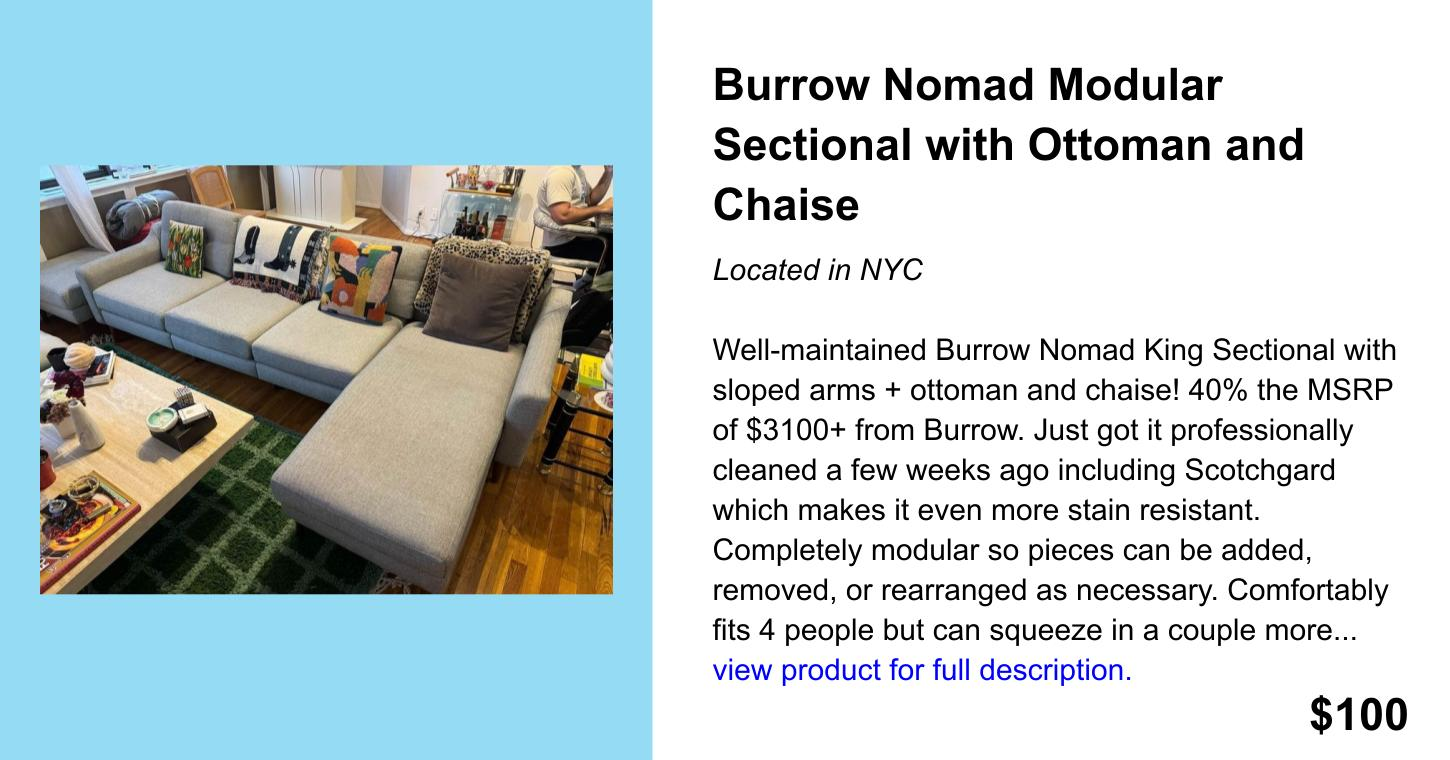
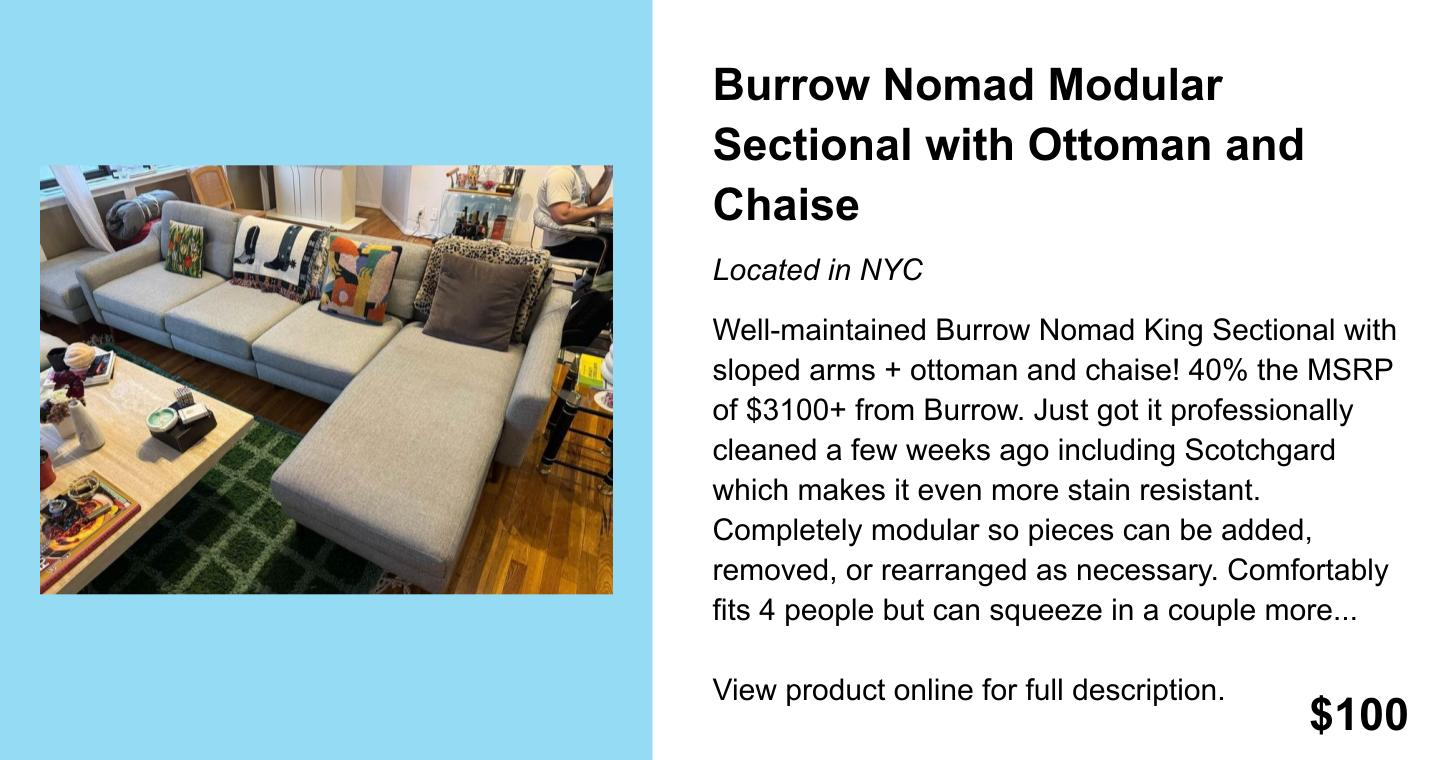
fixes

Changed region(s): [[0.4966, 0.4237, 0.9621, 0.9382]]

diff --git a/backend/utils/marketplace/createMarketplaceProductFrame.js b/backend/utils/marketplace/createMarketplaceProductFrame.js
@@ -52,14 +52,14 @@ async function createProductFrame(location, title, description, price, imageUrl)
         currentY += wrapText(ctx, title, textSectionStart, currentY, textMaxWidth, textConfig.title.lineHeight);
 
         // Print location underneath the title in italics
-        const locationGap = -40; // Gap between title and location
+        const locationGap = 0; // Gap between title and location
         currentY += locationGap; // Move currentY down to create a gap
         const fullLocation = `Located in ${location}`;
         ctx.font = 'italic 30px Arial';
         ctx.fillText(fullLocation, textSectionStart, currentY);
-        currentY += 80; // Move currentY down after location, creating space before the description
+        currentY += 60; // Adjust space before the description
 
-        // Reset font to non-italics
+        // Reset font to non-italics for description
         ctx.font = textConfig.description.font;
 
         // Draw product description if available
@@ -67,19 +67,14 @@ async function createProductFrame(location, title, description, price, imageUrl)
             const maxDescriptionLength = 60; // Maximum number of words for the description
             let words = description.split(' ');
             let shouldShowViewMore = words.length > maxDescriptionLength;
-            let trimmedDescription = shouldShowViewMore ? words.slice(0, maxDescriptionLength).join(' ') + "..." : description;
+            let trimmedDescription = shouldShowViewMore ? words.slice(0, maxDescriptionLength).join(' ') + "...\n\nView product online for full description." : description;
         
-            // Draw the trimmed description and update currentY based on the text height
-            currentY = wrapText(ctx, trimmedDescription, textSectionStart, currentY, textMaxWidth, textConfig.description.lineHeight);
-            
-            // If the description was trimmed, add the "view more" text with appropriate spacing
-            if (shouldShowViewMore) {
-                currentY += textConfig.description.lineHeight; // Ensure spacing between description and "view more" text
-                ctx.fillStyle = 'blue'; // Set color for "...view product for full description"
-                ctx.fillText("view product for full description.", textSectionStart, currentY);
-                currentY += textConfig.description.lineHeight; // Update currentY in case more text follows
-            }
+            // Use the corrected variable for drawing
+            currentY += wrapText(ctx, trimmedDescription, textSectionStart, currentY, textMaxWidth, textConfig.description.lineHeight);
+
+            // No need for additional "view more" text handling here; it's incorporated into trimmedDescription
         }
+
         // Draw price
         if (price && price.trim() !== '') {
             ctx.font = textConfig.price.font;
@@ -93,7 +88,7 @@ async function createProductFrame(location, title, description, price, imageUrl)
         }
 
         // Generate and return the image URL
-        const imageBuffer = canvas.toBuffer('image/jpeg');
+        const imageBuffer = canvas.toDataURL('image/jpeg');
         return imageBuffer;
     } catch (error) {
         console.error('Error creating product frame:', error);
@@ -102,24 +97,34 @@ async function createProductFrame(location, title, description, price, imageUrl)
 }
 
 function wrapText(ctx, text, x, y, maxWidth, lineHeight) {
-    const words = text.split(' ');
-    let line = '';
+    // Split the text into lines based on explicit new line characters
+    const lines = text.split('\n');
     let lastY = y;
 
-    for (let n = 0; n < words.length; n++) {
-        let testLine = line + words[n] + ' ';
-        let metrics = ctx.measureText(testLine);
-        let testWidth = metrics.width;
-        if (testWidth > maxWidth && n > 0) {
-            ctx.fillText(line, x, lastY);
-            line = words[n] + ' ';
-            lastY += lineHeight;
-        } else {
-            line = testLine;
+    lines.forEach((originalLine) => {
+        // Trim leading spaces to prevent unintended indenting
+        const line = originalLine.trimStart();
+        const words = line.split(' ');
+        let currentLine = '';
+
+        for (let n = 0; n < words.length; n++) {
+            let testLine = currentLine + words[n] + ' ';
+            let metrics = ctx.measureText(testLine);
+            let testWidth = metrics.width;
+            if (testWidth > maxWidth && n > 0) {
+                ctx.fillText(currentLine, x, lastY);
+                currentLine = words[n] + ' ';
+                lastY += lineHeight;
+            } else {
+                currentLine = testLine;
+            }
         }
-    }
-    ctx.fillText(line, x, lastY); // Ensure the last line is drawn
-    return lastY; // Adjusted to return the Y position for the next line
+        // Draw the current line because the loop is finished
+        ctx.fillText(currentLine.trim(), x, lastY);
+        lastY += lineHeight; // Move to the next line
+    });
+
+    return lastY - y; // Return the height used by the text
 }
 
 const textConfig = {
